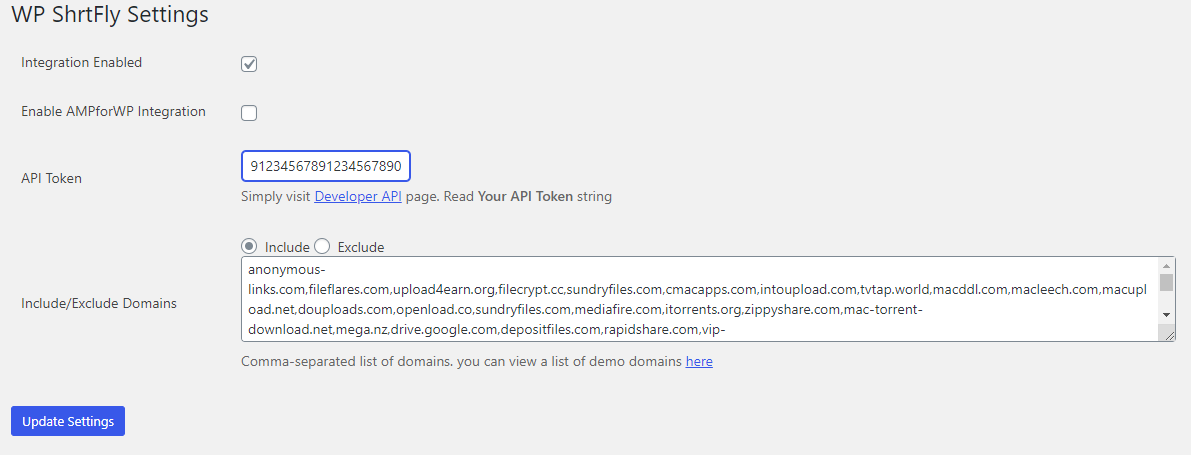
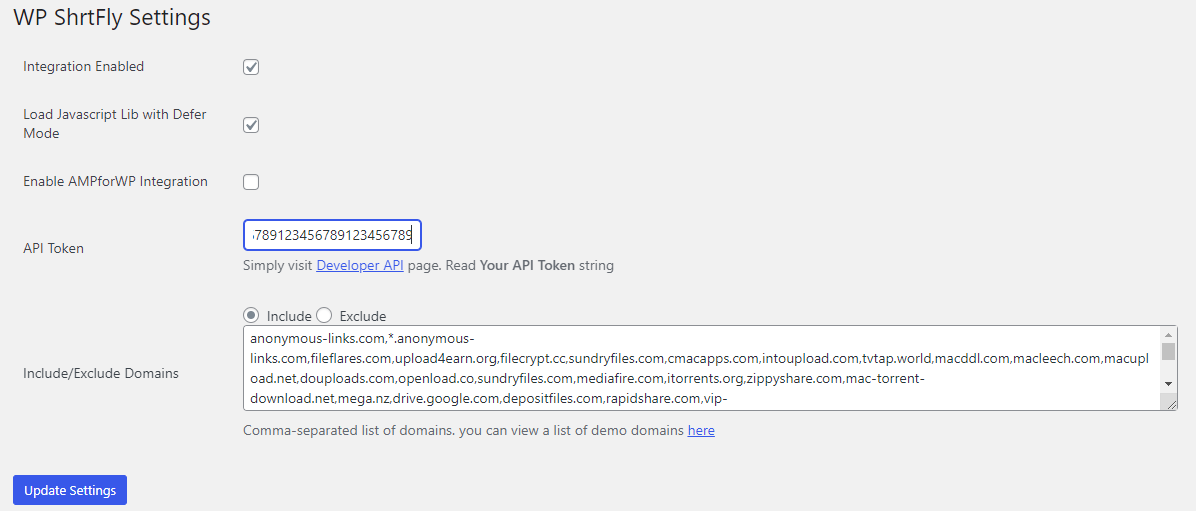
v1.3.0

diff --git a/index.php b/index.php
@@ -3,7 +3,7 @@
  * Plugin Name: WP ShrtFly Integration
  * Plugin URI: https://wordpress-plugins.luongovincenzo.it/#wp-shrtfly-integration
  * Description: This plugin allows you to configure Full Page Scrip and widget for stats
- * Version: 1.2.0
+ * Version: 1.3.0
  * Author: Vincenzo Luongo
  * Author URI: https://www.luongovincenzo.it/
  * License: GPLv2 or later
@@ -31,6 +31,7 @@ class WPShrtFlyDashboardIntegration {
         $this->pluginDetails = get_plugin_data(__FILE__);
         $this->pluginOptions = [
             'enabled' => get_option(SHRTFLY_INTEGRATION_PLUGIN_OPTIONS_PREFIX . '_enabled'),
+			'js_defer_enabled' => get_option(SHRTFLY_INTEGRATION_PLUGIN_OPTIONS_PREFIX . '_js_defer_enabled'),			
             'enabled_stats' => get_option(SHRTFLY_INTEGRATION_PLUGIN_OPTIONS_PREFIX . '_enabled_stats'),
             'enabled_amp' => get_option(SHRTFLY_INTEGRATION_PLUGIN_OPTIONS_PREFIX . '_enabled_amp'),
             'api_token' => trim(get_option(SHRTFLY_INTEGRATION_PLUGIN_OPTIONS_PREFIX . '_api_token')) ?: '-1',
@@ -79,6 +80,11 @@ class WPShrtFlyDashboardIntegration {
     public function gen_script() {
         if (get_option(SHRTFLY_INTEGRATION_PLUGIN_OPTIONS_PREFIX . '_enabled')) {
             $options = $this->pluginOptions;
+			
+			$loadJSDefer = '';
+			if (get_option(SHRTFLY_INTEGRATION_PLUGIN_OPTIONS_PREFIX . '_js_defer_enabled')) {
+				$loadJSDefer = 'defer';
+			}
 
             print '<!--wp_shrtfly_integration-->
                 <script type="text/javascript">
@@ -87,7 +93,7 @@ class WPShrtFlyDashboardIntegration {
                     var app_advert = 2;
                     ' . $this->includeExcludeDomainScript($options) . '
                 </script>
-                <script defer src="//shrtfly.com/js/full-page-script.js"></script>
+                <script '.$loadJSDefer.' src="//shrtfly.com/js/full-page-script.js"></script>
                 <!-- [END] wp_shrtfly_integration -->';
         } else {
             return false;
@@ -125,6 +131,7 @@ class WPShrtFlyDashboardIntegration {
 
     public function _registerOptions() {
         register_setting(SHRTFLY_INTEGRATION_PLUGIN_SETTINGS_GROUP, SHRTFLY_INTEGRATION_PLUGIN_OPTIONS_PREFIX . '_enabled');
+		register_setting(SHRTFLY_INTEGRATION_PLUGIN_SETTINGS_GROUP, SHRTFLY_INTEGRATION_PLUGIN_OPTIONS_PREFIX . '_js_defer_enabled');		
         register_setting(SHRTFLY_INTEGRATION_PLUGIN_SETTINGS_GROUP, SHRTFLY_INTEGRATION_PLUGIN_OPTIONS_PREFIX . '_api_token');
         register_setting(SHRTFLY_INTEGRATION_PLUGIN_SETTINGS_GROUP, SHRTFLY_INTEGRATION_PLUGIN_OPTIONS_PREFIX . '_enabled_amp');
         register_setting(SHRTFLY_INTEGRATION_PLUGIN_SETTINGS_GROUP, SHRTFLY_INTEGRATION_PLUGIN_OPTIONS_PREFIX . '_domain');
@@ -155,6 +162,11 @@ class WPShrtFlyDashboardIntegration {
                         <tr valign="top">
                             <td scope="row" class="left_shrtfly_bar">Integration Enabled</td>
                             <td><input type="checkbox" <?php echo get_option(SHRTFLY_INTEGRATION_PLUGIN_OPTIONS_PREFIX . '_enabled') ? 'checked="checked"' : '' ?> value="1" name="<?php print SHRTFLY_INTEGRATION_PLUGIN_OPTIONS_PREFIX; ?>_enabled" /></td>
+                        </tr>
+						
+						 <tr valign="top">
+                            <td scope="row" class="left_shrtfly_bar">Load Javascript Lib with Defer Mode</td>
+                            <td><input type="checkbox" <?php echo get_option(SHRTFLY_INTEGRATION_PLUGIN_OPTIONS_PREFIX . '_js_defer_enabled') ? 'checked="checked"' : '' ?> value="1" name="<?php print SHRTFLY_INTEGRATION_PLUGIN_OPTIONS_PREFIX; ?>_js_defer_enabled" /></td>
                         </tr>
 
                         <tr valign="top">
